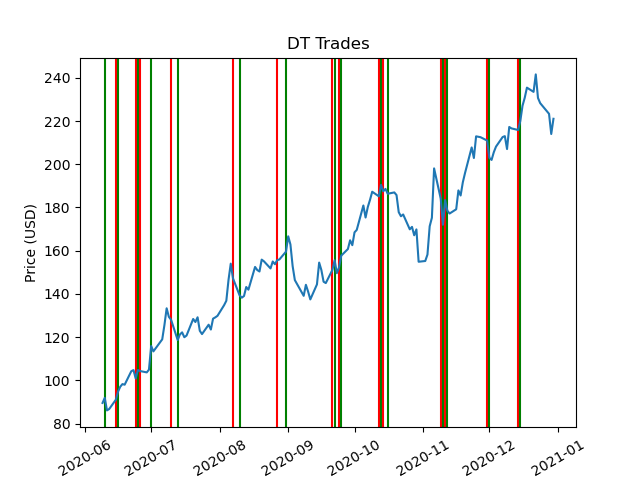
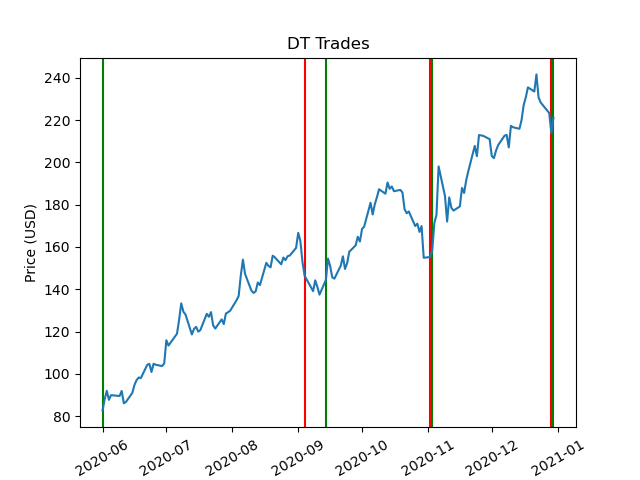
sktrader

diff --git a/alchemist/src/strategies/model.py b/alchemist/src/strategies/model.py
@@ -18,6 +18,8 @@ import numpy as np
 
 import matplotlib.pyplot as plt
 
+from sklearn.preprocessing import MinMaxScaler
+
 class SKTrader(Trader):
 
     def __init__(self, model, 
@@ -56,6 +58,8 @@ class SKTrader(Trader):
         ]
         self.target = 'daily_ror_future'
 
+        self.cols = [ *self.features , *[self.target] ]
+
         # Populate after training and trading period
         self.train_data = None
         self.test_data = None
@@ -74,11 +78,30 @@ class SKTrader(Trader):
         """
         train_data = self.data.loc[start_date:end_date].dropna()
 
-        self.model.fit(train_data[self.features], train_data[self.target])
+        scaler_X = MinMaxScaler().fit(train_data[self.features])
+        scaler_y = MinMaxScaler().fit(train_data[self.target].values.reshape(-1, 1))
 
-        pred_returns = self.model.predict(train_data[self.features])
-        train_data[f'{self.target}_pred'] = pred_returns
+        train_data_norm = np.hstack((
+            scaler_X.transform(train_data[self.features]),
+            scaler_y.transform(train_data[self.target].values.reshape(-1, 1))
+        ))
+        train_data_norm = pd.DataFrame(train_data_norm, index=train_data.index, columns=self.cols)
+        
+        self.model.fit(train_data_norm[self.features], 
+                       train_data_norm[self.target])
+
+        pred_returns_norm = self.model.predict(train_data_norm[self.features])
+        
+        train_data_norm[f'{self.target}_pred'] = pred_returns_norm
+
+        train_data[f'{self.target}_pred'] = scaler_y.inverse_transform(pred_returns_norm.reshape(-1, 1))
+
+        train_data = train_data.merge(train_data_norm, left_index=True, right_index=True, suffixes=('', '_norm'))
+
         self.train_data = train_data
+        
+        self.scaler_X = scaler_X
+        self.scaler_y = scaler_y
 
     def trade(self, 
             start_date: datetime=datetime(2020, 1, 1), 
@@ -87,8 +110,8 @@ class SKTrader(Trader):
         
         test_data = self.data.loc[start_date:end_date].dropna()
 
-        pred_returns = self.model.predict(test_data[self.features])
-        test_data[f'{self.target}_pred'] = pred_returns
+        pred_returns = self.model.predict(self.scaler_X.transform(test_data[self.features]))
+        test_data[f'{self.target}_pred'] = self.scaler_y.inverse_transform(pred_returns.reshape(-1, 1))
         
         self.test_data = test_data
 
@@ -176,7 +199,7 @@ class SKTrader(Trader):
 if __name__ == '__main__':
     
     # model = DecisionTreeRegressor(max_depth=5)
-    model = RandomForestRegressor(max_depth=10, n_estimators=200)
+    model = RandomForestRegressor(max_depth=5, n_estimators=100)
     dt_trader = SKTrader(model, 'DT', 'SQ', window=14)
     dt_trader.train(start_date=datetime(2019, 4, 1), end_date=datetime(2019, 5, 30))
     trades = dt_trader.trade(start_date=datetime(2019, 6, 1), end_date=datetime(2019, 7, 31))

diff --git a/alchemist/src/sim/evaluate.py b/alchemist/src/sim/evaluate.py
@@ -123,10 +123,10 @@ if __name__ == '__main__':
     trades = trader.trade(symbol='SQ')
 
     model = DecisionTreeRegressor(max_depth=5)
-    dt_trader = SKTrader(model, 'DT', impact=0.0)
-    dt_trader.train('SQ', start_date=datetime(2020, 3, 1), end_date=datetime(2020, 5, 30))
-    dt_trades = dt_trader.trade('SQ', start_date=datetime(2020, 6, 1), end_date=datetime(2020, 12, 31))
-    
+    dt_trader = SKTrader(model, 'DT', 'SQ')
+    dt_trader.train(start_date=datetime(2020, 3, 1), end_date=datetime(2020, 5, 31))
+    dt_trades = dt_trader.trade(start_date=datetime(2020, 6, 1), end_date=datetime(2020, 12, 31))
+
     hodler = HODLer('HODL')
     hodler_trades = hodler.trade(symbol='SQ')
 
